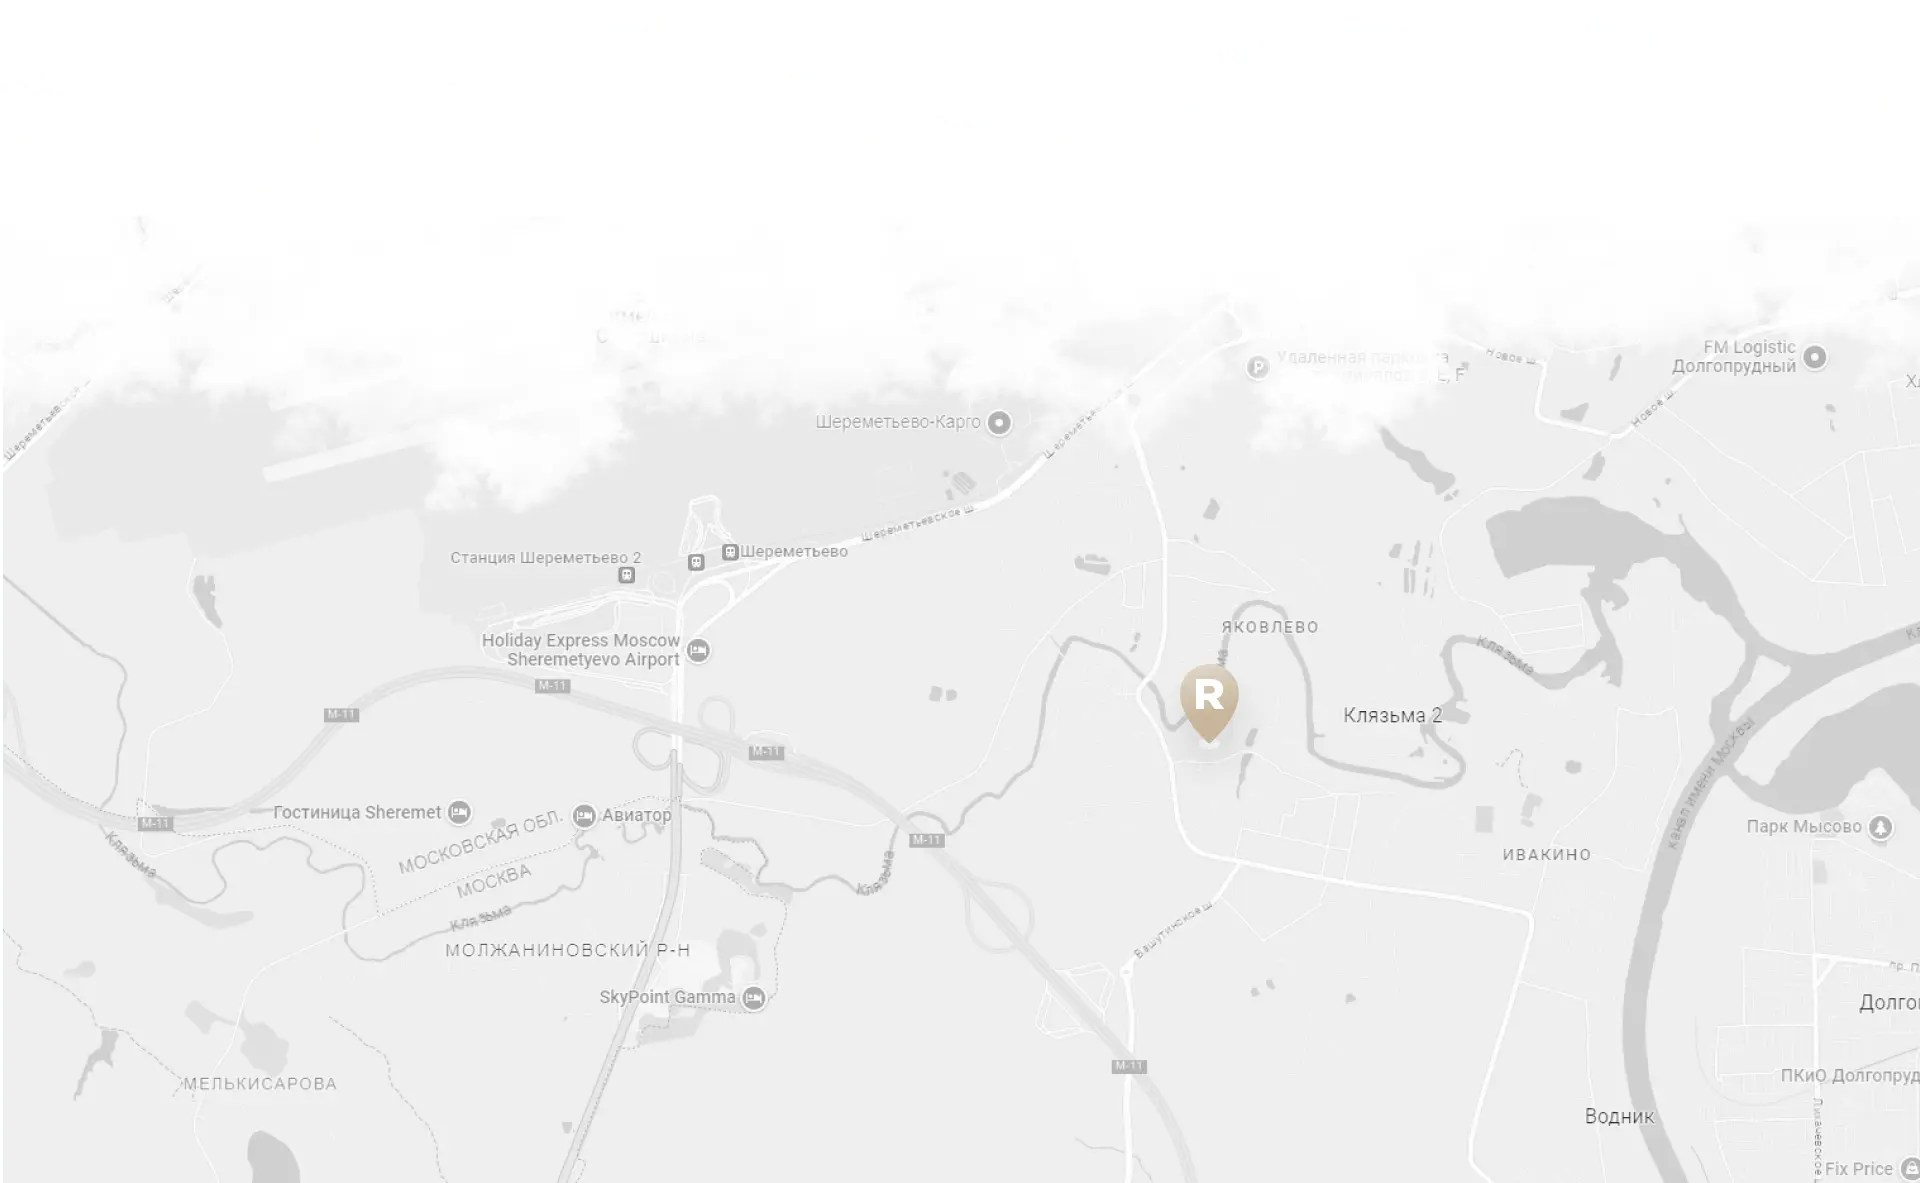
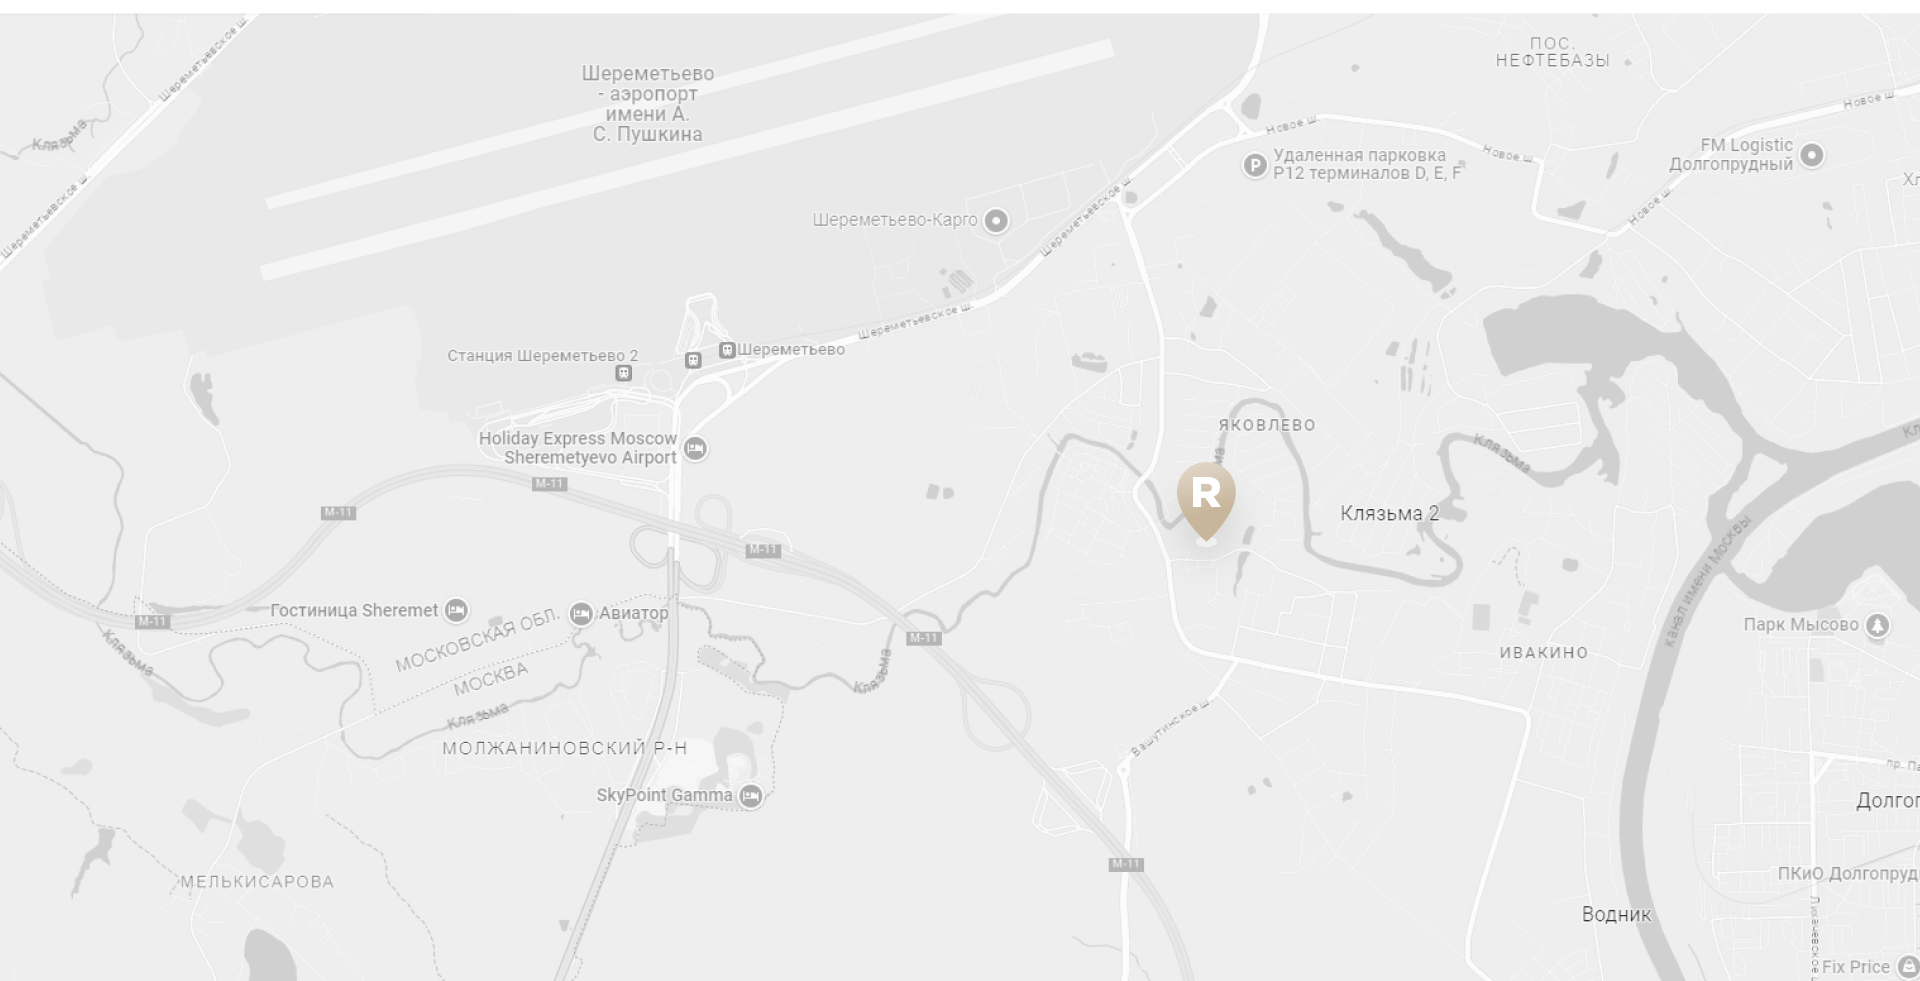
fix: fix contact clouds bg

diff --git a/css/index.css b/css/index.css
@@ -2057,15 +2057,12 @@ figure {
   line-height: 20px;
 }
 .contacts {
+  position: relative;
   padding: 0 0 180px;
   background-image: url("../assets/contacts/contacts-bg.webp");
   background-position: center bottom;
   background-repeat: no-repeat;
-}
-@media (max-width: 576px) {
-  .contacts {
-    padding: 0;
-  }
+  background-size: 1920px;
 }
 @media (min-width: 1920.1px) {
   .contacts {
@@ -2075,14 +2072,48 @@ figure {
 @media (max-width: 768px) {
   .contacts {
     background-position-x: 70%;
-    background-position-y: -46%;
+    background-position-y: 0;
   }
 }
 @media (max-width: 576px) {
   .contacts {
-    background-position-x: 66%;
-    background-position-y: -100%;
+    padding: 0;
+    background-position-x: 65%;
   }
+}
+.contacts::before {
+  content: "";
+  position: absolute;
+  left: 0;
+  right: 0;
+  bottom: 687px;
+  display: block;
+  z-index: 1;
+  width: 100%;
+  height: 300px;
+  background-image: url("../assets/contacts/contacts-clouds-bg.webp");
+  background-position: center bottom;
+  background-repeat: no-repeat;
+}
+@media (min-width: 1920.1px) {
+  .contacts::before {
+    top: 0;
+    bottom: auto;
+    height: 600px;
+    background-size: 200%;
+    background-position: center bottom 100px;
+  }
+}
+@media (max-width: 768px) {
+  .contacts::before {
+    top: 0;
+    bottom: auto;
+    height: 400px;
+  }
+}
+.contacts .container {
+  position: relative;
+  z-index: 2;
 }
 .contacts__title {
   background-image: linear-gradient(351deg, #1c1c25 40%, #acadad 100%);

diff --git a/scss/_l-contacts.scss b/scss/_l-contacts.scss
@@ -1,12 +1,10 @@
 .contacts {
+  position: relative;
   padding: 0 0 180px;
   background-image: url('../assets/contacts/contacts-bg.webp');
   background-position: center bottom;
   background-repeat: no-repeat;
-
-  @include mobile {
-    padding: 0;
-  }
+  background-size: 1920px;
 
   @media (min-width: 1920.1px) {
     background-size: 100%;
@@ -14,12 +12,48 @@
 
   @include tablet {
     background-position-x: 70%;
-    background-position-y: -46%;
+    background-position-y: 0;
   }
 
   @include mobile {
-    background-position-x: 66%;
-    background-position-y: -100%;
+    padding: 0;
+    background-position-x: 65%;
+  }
+
+  &::before {
+    content: '';
+    position: absolute;
+    left: 0;
+    right: 0;
+    bottom: 687px;
+    display: block;
+    z-index: 1;
+    width: 100%;
+    height: 300px;
+    background-image: url('../assets/contacts/contacts-clouds-bg.webp');
+    background-position: center bottom;
+    background-repeat: no-repeat;
+
+    @media (min-width: 1920.1px) {
+      top: 0;
+      bottom: auto;
+      height: 600px;
+      background-size: 200%;
+      background-position: center bottom 100px;
+      
+      
+    }
+
+    @include tablet {
+      top: 0;
+      bottom: auto;
+      height: 400px;
+    }
+  }
+
+  & .container {
+    position: relative;
+    z-index: 2;
   }
 
   &__title {
